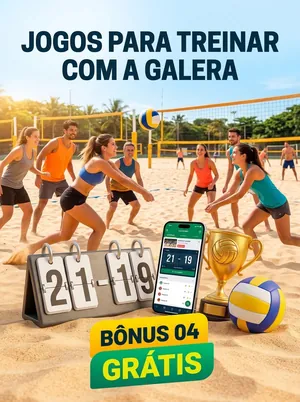
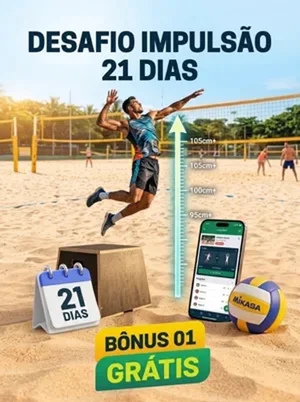
feat: update bonus offerings and testimonials
- Add "Desafio Impulsão 21 Dias" to bonuses.
- Update bonus pricing and FAQ content.
- Update trainer testimonials to student feedback.

diff --git a/src/components/TrainerTestimonials.tsx b/src/components/TrainerTestimonials.tsx
@@ -1,12 +1,13 @@
 import React, { useRef, useState } from 'react';
 import { ChevronLeft, ChevronRight } from 'lucide-react';
-import depoimento1 from '../assets/images/depoimentos/depoimento-1.webp';
-import depoimento2 from '../assets/images/depoimentos/depoimento-2-novo.webp';
-import depoimento3 from '../assets/images/depoimentos/depoimento-3-novo.webp';
-import depoimento4 from '../assets/images/depoimentos/depoimento-4-novo.webp';
+import depoimento1 from '../assets/images/depoimentos/depoimento-app-1.webp';
+import depoimento2 from '../assets/images/depoimentos/depoimento-app-2.webp';
+import depoimento3 from '../assets/images/depoimentos/depoimento-app-3.webp';
+import depoimento4 from '../assets/images/depoimentos/depoimento-app-4.webp';
+import depoimento5 from '../assets/images/depoimentos/depoimento-app-5-v2.webp';
 
 /**
- * DEPOIMENTOS DE TREINADORES (prints reais de WhatsApp)
+ * DEPOIMENTOS (prints reais de quem treina com o app)
  *
  * Para adicionar um print: coloque o arquivo (webp) em src/assets/images/depoimentos/,
  * importe aqui em cima e inclua um novo item na lista DEPOIMENTOS
@@ -22,27 +23,33 @@ interface Depoimento {
 const DEPOIMENTOS: Depoimento[] = [
   {
     src: depoimento1,
-    alt: 'Conversa de WhatsApp em que um treinador agradece pelo material, diz que ficou mais fácil planejar os treinos e que já aplicou com a turma na areia',
+    alt: 'Conversa de WhatsApp em que um aluno agradece pelo conteúdo, conta que usa há quase 2 semanas os treinos de impulsão e elogia o bom direcionamento',
     w: 800,
-    h: 820,
+    h: 1074,
   },
   {
     src: depoimento2,
-    alt: 'Conversa de WhatsApp elogiando a organização do material e a facilidade de acessar direto na quadra de areia',
-    w: 800,
-    h: 1159,
+    alt: 'Conversa de WhatsApp em que um praticante conta que fechou a semana 3 dos treinos de impulsão em casa sem peso e sentiu que estava mais leve jogando na areia',
+    w: 719,
+    h: 1012,
   },
   {
     src: depoimento3,
-    alt: 'Conversa de WhatsApp em que um jogador amador parabeniza pela qualidade do material e conta que está ajudando demais nos treinos de fim de semana com os amigos na praia',
-    w: 800,
-    h: 1159,
+    alt: 'Conversa de WhatsApp em que um aluno diz que intercala os exercícios em casa com os treinos na areia e que o pessoal do racha já notou a evolução na defesa e no condicionamento',
+    w: 719,
+    h: 1000,
   },
   {
     src: depoimento4,
-    alt: 'Conversa de WhatsApp em que um praticante conta que já começou a usar o material nos treinos da pelada e recomenda para todo mundo do time',
+    alt: 'Conversa de WhatsApp em que um praticante conta que já está com 14 dias seguidos no tracker do app, treinando 15 minutos em casa nos dias sem quadra',
     w: 800,
-    h: 763,
+    h: 1036,
+  },
+  {
+    src: depoimento5,
+    alt: 'Conversa em que um aluno elogia as mais de 420 opções de exercícios do app e conta que o jogo subiu de nível treinando em casa na semana e na areia no fim de semana',
+    w: 800,
+    h: 1069,
   },
 ];
 
@@ -77,7 +84,7 @@ export const TrainerTestimonials: React.FC = () => {
         <figure
           onTouchStart={onTouchStart}
           onTouchEnd={onTouchEnd}
-          className="h-[540px] sm:h-[600px] flex items-center justify-center rounded-2xl overflow-hidden bg-white border border-[#E6DCC4] shadow-sm"
+          className="h-[540px] sm:h-[600px] flex items-center justify-center rounded-2xl overflow-hidden bg-[#14110B] border border-[#E6DCC4] shadow-sm"
         >
           <img
             key={index}

diff --git a/src/components/Bonuses.tsx b/src/components/Bonuses.tsx
@@ -20,6 +20,16 @@ interface BonusItem {
 const BONUSES: BonusItem[] = [
   {
     numberString: '01',
+    name: 'Desafio Impulsão 21 Dias',
+    shortName: 'Desafio Impulsão 21 Dias',
+    desc: 'Para você subir mais na bola e parar de atacar de baixo para cima. São 21 dias treinando perna explosiva e passada certa, e no fim você mede seu alcance na parede.',
+    originalPrice: 'R$ 47',
+    isNew: true,
+    icon: '🚀',
+    image: bonus04,
+  },
+  {
+    numberString: '02',
     name: 'Plano de Evolução em 15 Dias',
     shortName: 'Plano de 15 dias',
     desc: 'Um treino por dia, na sequência certa, do primeiro toque até jogar a partida.',
@@ -29,7 +39,7 @@ const BONUSES: BonusItem[] = [
     image: bonus01,
   },
   {
-    numberString: '02',
+    numberString: '03',
     name: 'Treinos Prontos para Seguir',
     shortName: 'Treinos prontos',
     desc: 'Abra o treino do dia e siga, do iniciante ao avançado, sem precisar montar nada.',
@@ -38,22 +48,13 @@ const BONUSES: BonusItem[] = [
     image: bonus02,
   },
   {
-    numberString: '03',
+    numberString: '04',
     name: 'Treino em Casa: 195 exercícios sem quadra',
     shortName: 'Treino em casa',
     desc: 'Bola na parede, impulsão, força e agilidade para treinar na semana em que não dá para ir à areia.',
     originalPrice: 'R$ 37',
     icon: '🏠',
     image: bonus03,
-  },
-  {
-    numberString: '04',
-    name: 'Jogos para Treinar com a Galera',
-    shortName: 'Jogos com a galera',
-    desc: 'Jogos em dupla e em grupo, com placar no app, para a resenha virar treino.',
-    originalPrice: 'R$ 27',
-    icon: '🏐',
-    image: bonus04,
   },
   {
     numberString: '05',
@@ -163,7 +164,7 @@ export const Bonuses: React.FC = () => {
               Valor total dos bônus
             </span>
             <span className="text-right">
-              <span className="block text-sm font-bold text-slate-400 line-through">R$ 205</span>
+              <span className="block text-sm font-bold text-slate-400 line-through">R$ 225</span>
               <span className="block text-2xl sm:text-3xl font-black text-emerald-600 leading-none">R$ 0,00</span>
             </span>
           </div>

diff --git a/src/components/Pricing.tsx b/src/components/Pricing.tsx
@@ -162,7 +162,7 @@ export const Pricing: React.FC<PricingProps> = ({ onOpenUpsell }) => {
               ))}
               <li className="flex items-start gap-2 text-[#B87500] font-black">
                 <span className="shrink-0">🎁</span>
-                <span>+ 5 bônus inclusos (valem R$ 205)</span>
+                <span>+ 5 bônus inclusos (valem R$ 225)</span>
               </li>
               <li className="flex items-start gap-2 text-[#14110B] font-black">
                 <span className="shrink-0">⚡</span>
@@ -180,9 +180,9 @@ export const Pricing: React.FC<PricingProps> = ({ onOpenUpsell }) => {
               QUERO OS +420 TREINOS
             </a>
 
-            {/* Abaixo do botão: Economia real de R$ 205 */}
+            {/* Abaixo do botão: Economia real de R$ 225 */}
             <div className="mt-2.5 text-center text-xs font-black text-emerald-800 bg-emerald-50 py-1 px-3 rounded-full border border-emerald-200">
-              Economia real de R$ 205
+              Economia real de R$ 225
             </div>
 
             <div className="mt-3 text-center text-xs text-slate-500 font-medium space-y-1">

diff --git a/src/components/Faq.tsx b/src/components/Faq.tsx
@@ -12,8 +12,8 @@ const FAQ_DATA: FaqItem[] = [
     answer: 'Assim que o pagamento é confirmado, o acesso chega no seu e-mail e no seu WhatsApp. É só abrir no celular e começar.',
   },
   {
-    question: 'É de vôlei de praia mesmo ou é treino de quadra adaptado?',
-    answer: 'É de vôlei de praia. Os treinos de areia foram pensados para a praia: jogo em dupla, deslocamento na areia fofa, saque e recepção com vento e side-out do jogo de praia. Não é treino de quadra adaptado.',
+    question: 'Serve para vôlei de praia e também para vôlei de quadra?',
+    answer: 'Funciona para ambos! Tanto para quem joga vôlei de praia quanto para quem joga vôlei de quadra. Os treinos trabalham todos os fundamentos (saque, recepção, levantamento, ataque, bloqueio e defesa), controle de bola, impulsão e agilidade para você evoluir na areia e na quadra.',
   },
   {
     question: 'Sou iniciante, nunca treinei. Serve para mim?',

diff --git a/src/components/UpsellModal.tsx b/src/components/UpsellModal.tsx
@@ -91,7 +91,7 @@ export const UpsellModal: React.FC<UpsellModalProps> = ({ isOpen, onClose }) => 
           </div>
           <div className="flex items-start gap-2 text-xs sm:text-sm text-[#B87500] font-bold">
             <span className="shrink-0">🎁</span>
-            <span><strong>Todos os 5 Bônus inclusos:</strong> Plano de 15 Dias, Treinos Prontos, Treino em Casa, Jogos com a Galera e Tracker de Evolução (R$ 205 grátis)</span>
+            <span><strong>Todos os 5 Bônus inclusos:</strong> Desafio Impulsão 21 Dias, Plano de 15 Dias, Treinos Prontos, Treino em Casa e Tracker de Evolução (R$ 225 grátis)</span>
           </div>
           <div className="flex items-start gap-2 text-xs sm:text-sm text-slate-800 font-semibold">
             <span className="text-emerald-600 font-bold shrink-0">✅</span>
